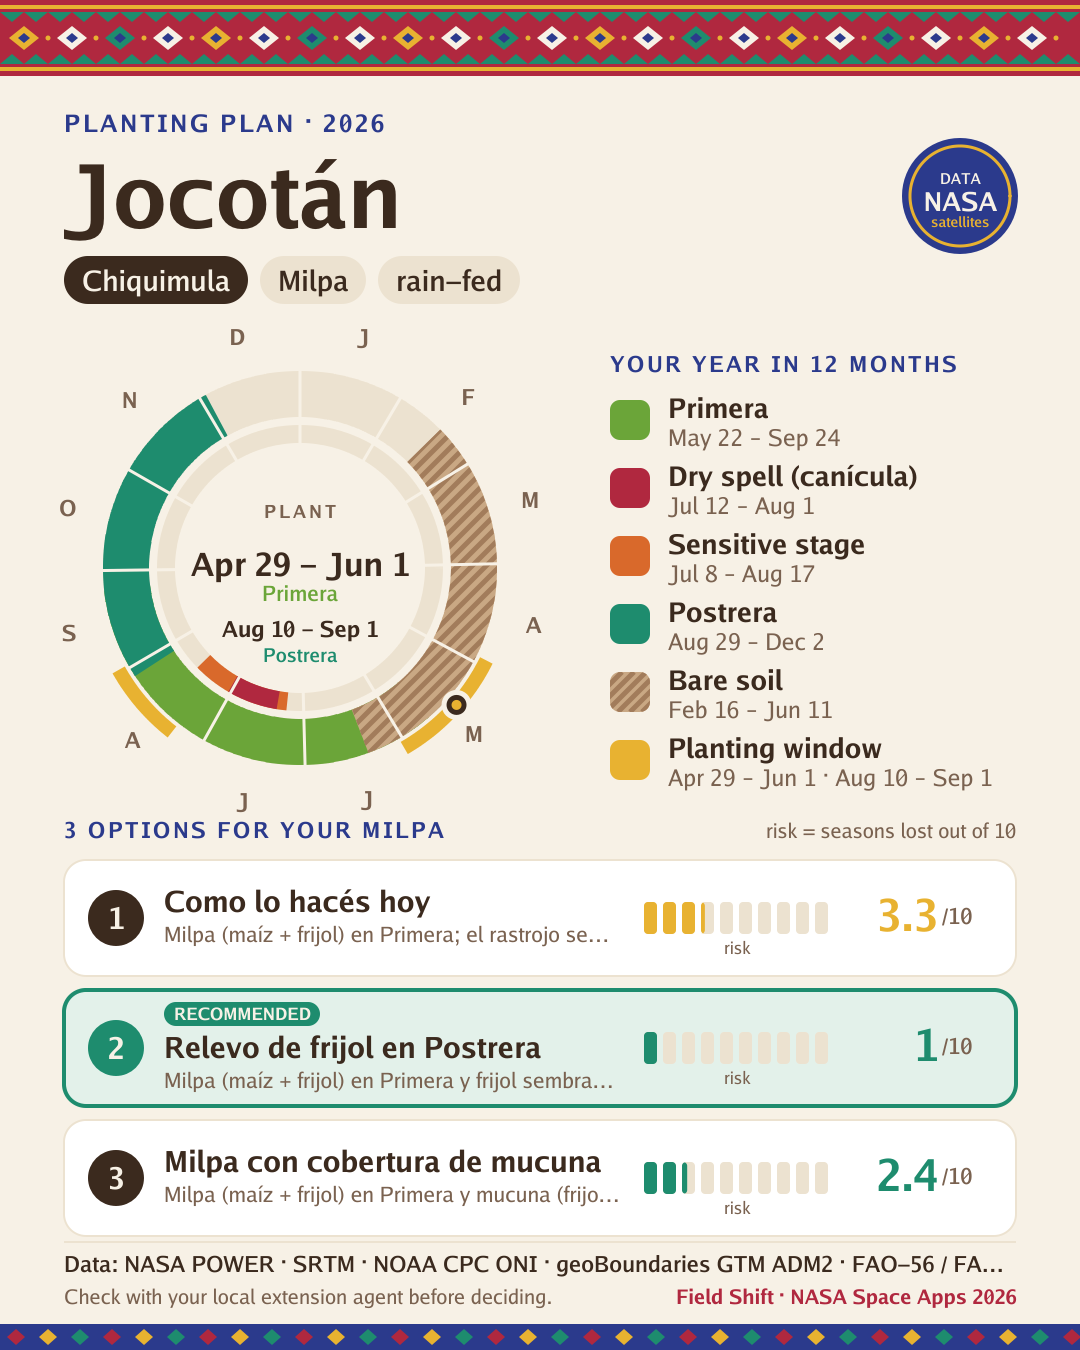
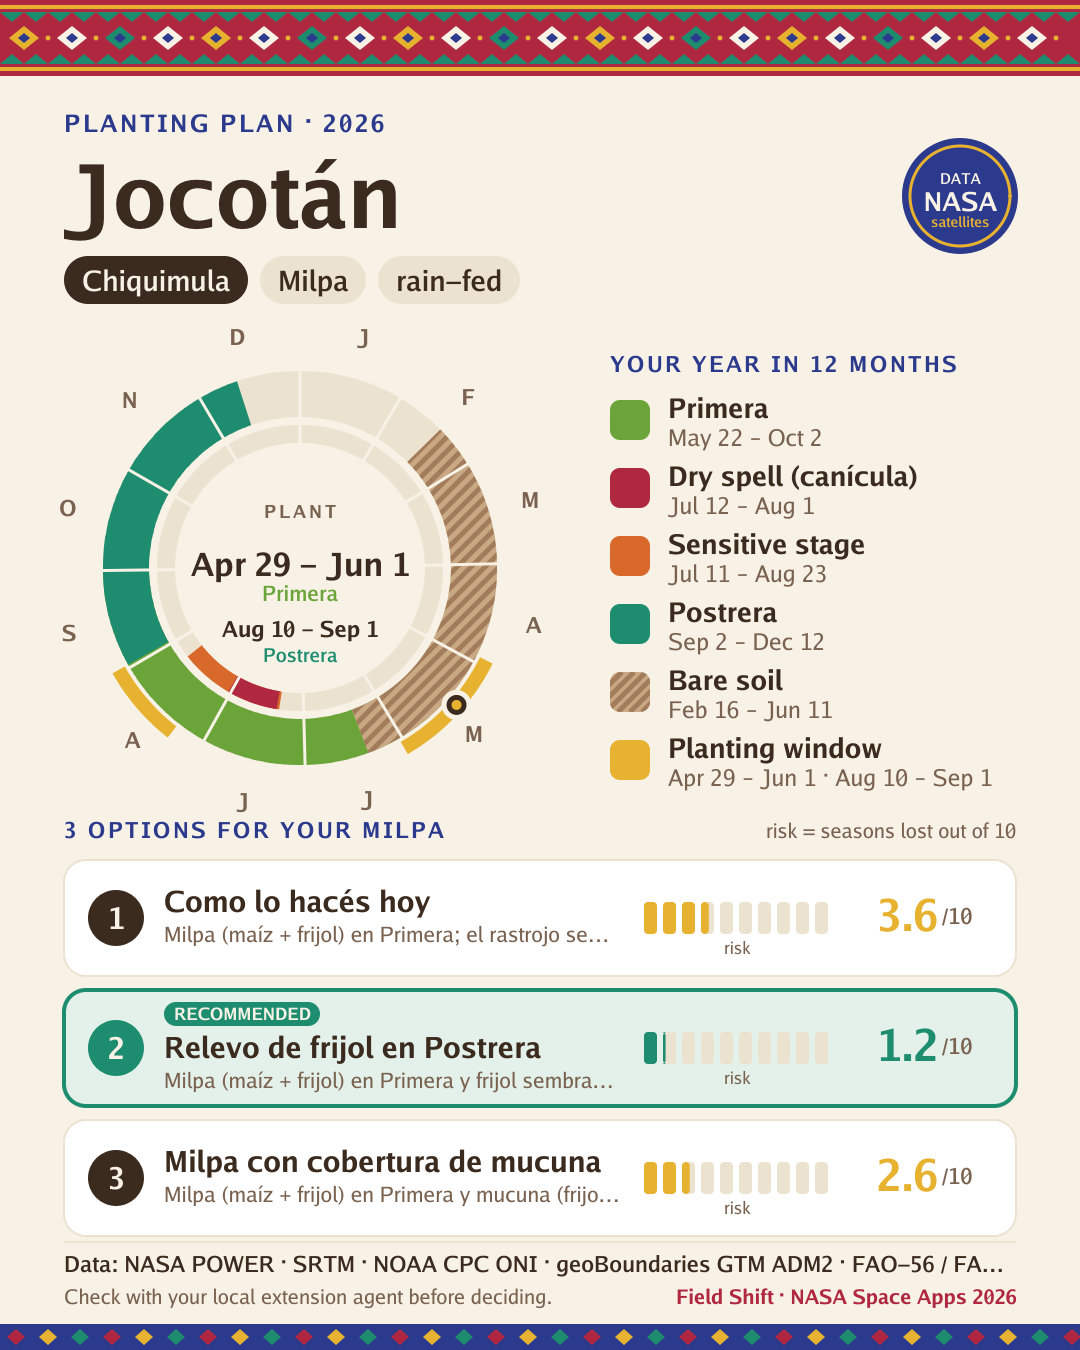
Integrador: motor con STATIC_DIR, bot con store de alertas (Store.Bot)

diff --git a/cmd/server/wire.go b/cmd/server/wire.go
@@ -17,7 +17,6 @@ import (
 	"fieldshift/internal/contract"
 	"fieldshift/internal/geo"
 	"fieldshift/internal/plan"
-	"fieldshift/internal/store"
 )
 
 // Alertador lo implementa internal/alerts: corrida diaria idempotente.
@@ -47,7 +46,7 @@ func montar(mux *http.ServeMux, cfg Config) *app {
 
 	// MOTOR (internal/plan)
 	var muni *geo.Index
-	if eng, err := plan.Routes(mux, cfg.DataDir); err == nil {
+	if eng, err := plan.Routes(mux, cfg.DataDir, cfg.StaticDir); err == nil {
 		a.planner, muni = eng, eng.Muni
 		a.comp.Motor = "real"
 	} else {
@@ -84,7 +83,7 @@ func montar(mux *http.ServeMux, cfg Config) *app {
 	// BOT (internal/bot, internal/channels, internal/cards)
 	d := channels.DepsDesdeEnv()
 	if alSvc != nil {
-		d.Subs = subsStore{alSvc.Store}
+		d.Subs = alSvc.Store.Bot()
 	}
 	d.Planner, d.Municipios = a.planner, muni
 	if os.Getenv("BOT_SESIONES") == "" {
@@ -119,15 +118,6 @@ func (r alertadorReal) RunDaily(date string) error {
 		log.Printf("alertas: corrida %s → %+v", date, res)
 	}
 	return err
-}
-
-// subsStore adapta store.Store a bot.Suscripciones.
-type subsStore struct{ st *store.Store }
-
-func (s subsStore) Suscribir(x contract.Suscriptor) error { _, err := s.st.Suscribir(x); return err }
-func (s subsStore) Baja(tel string) error                 { return s.st.Baja(tel) }
-func (s subsStore) RegistrarRespuesta(tel, alertaID, respuesta string) error {
-	return s.st.GuardarRespuesta(tel, alertaID, respuesta)
 }
 
 // mensajeroDiferido deja construir alertas antes que los canales del bot.
